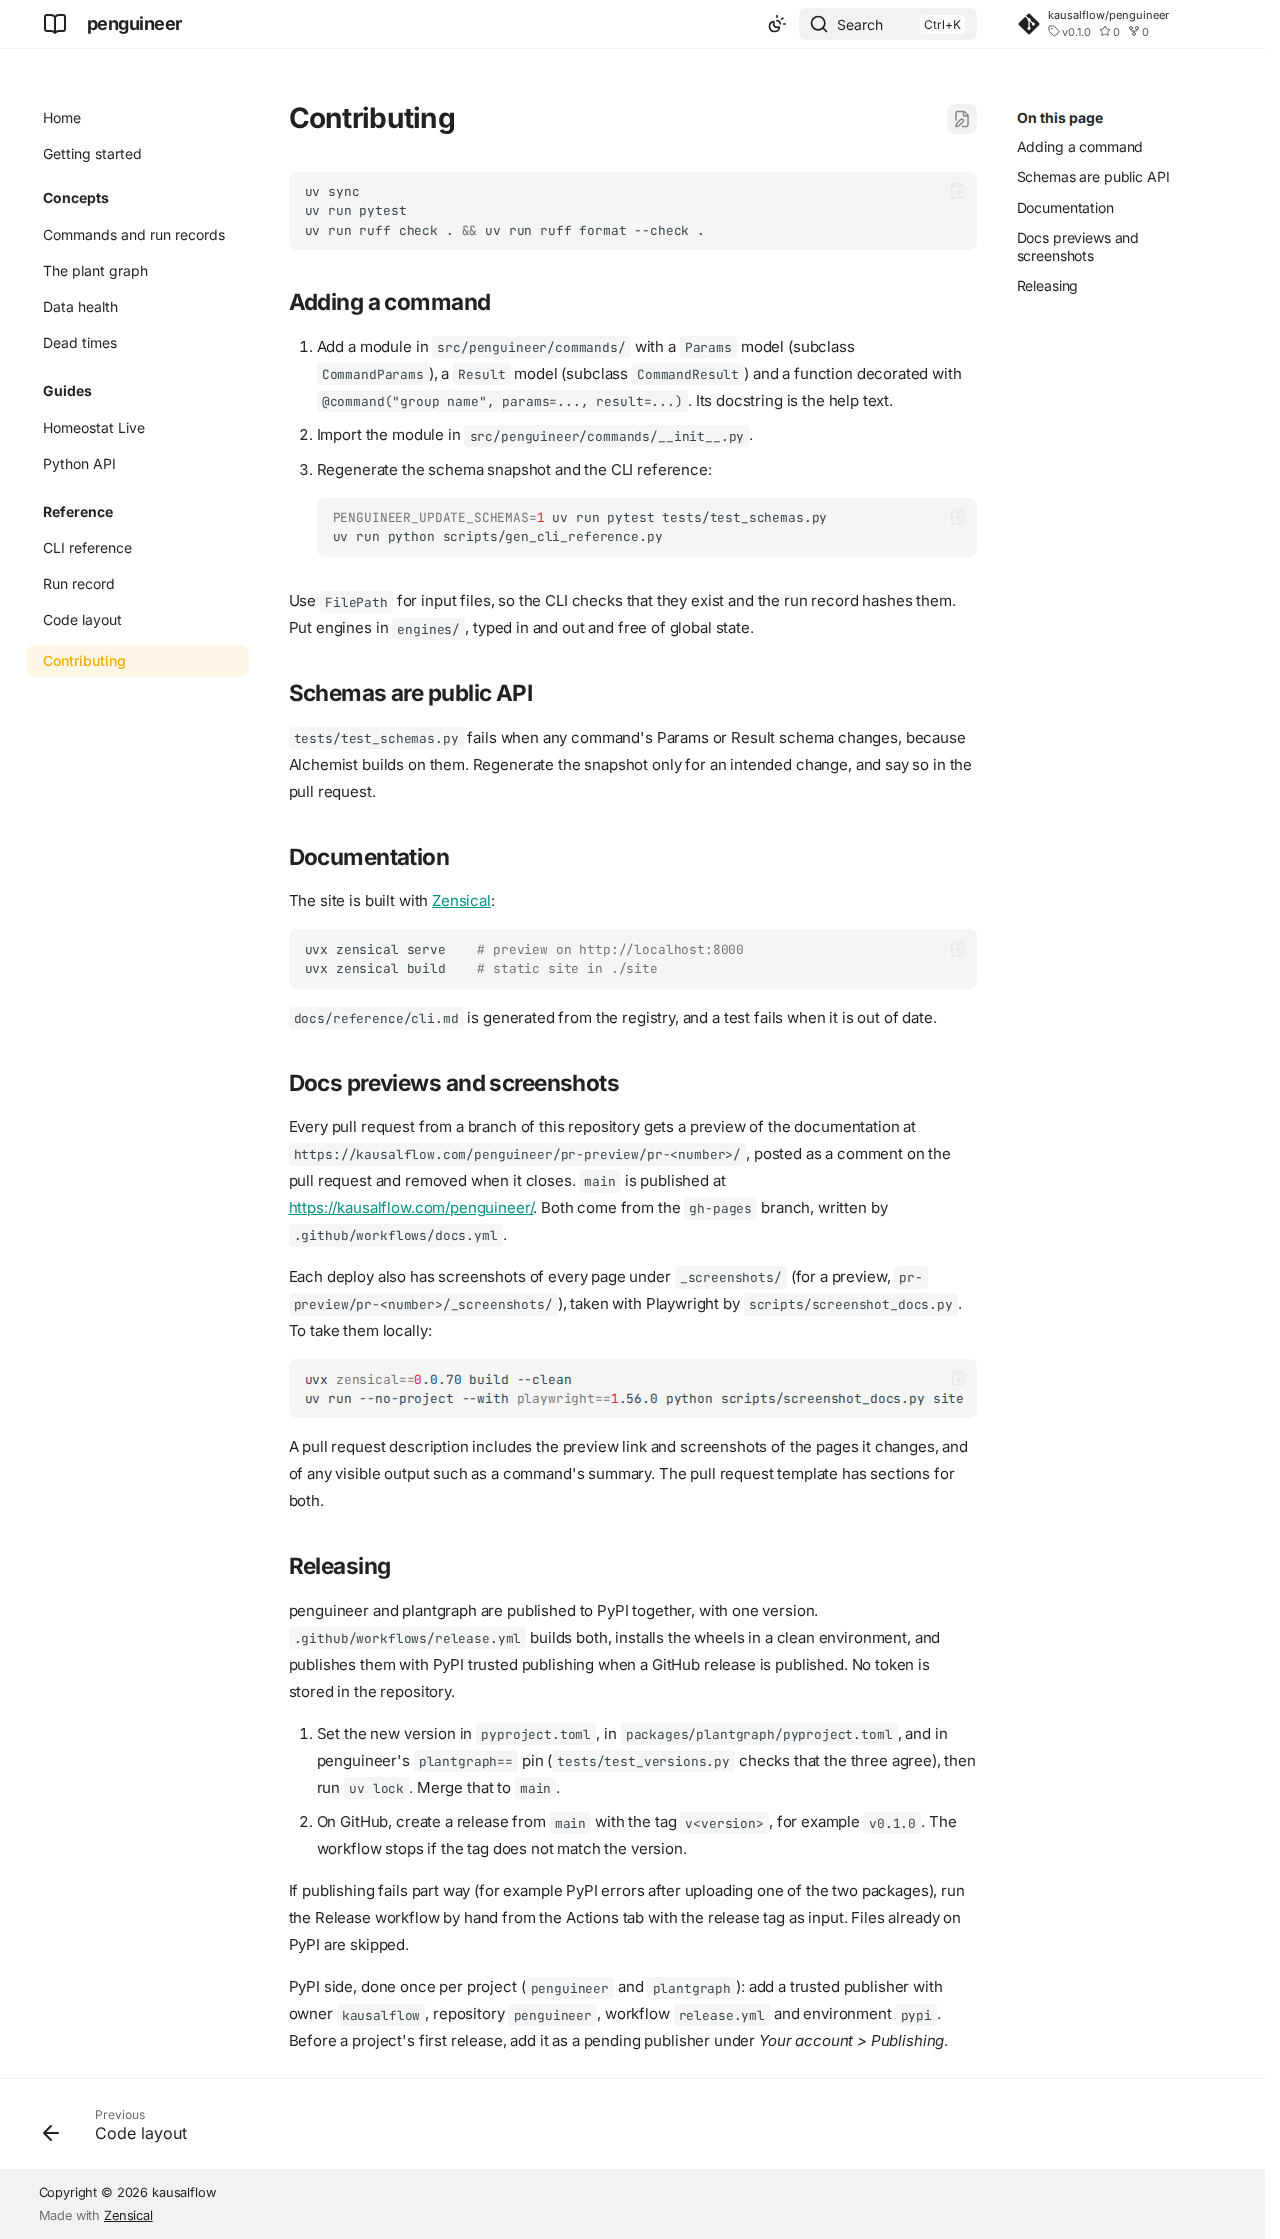
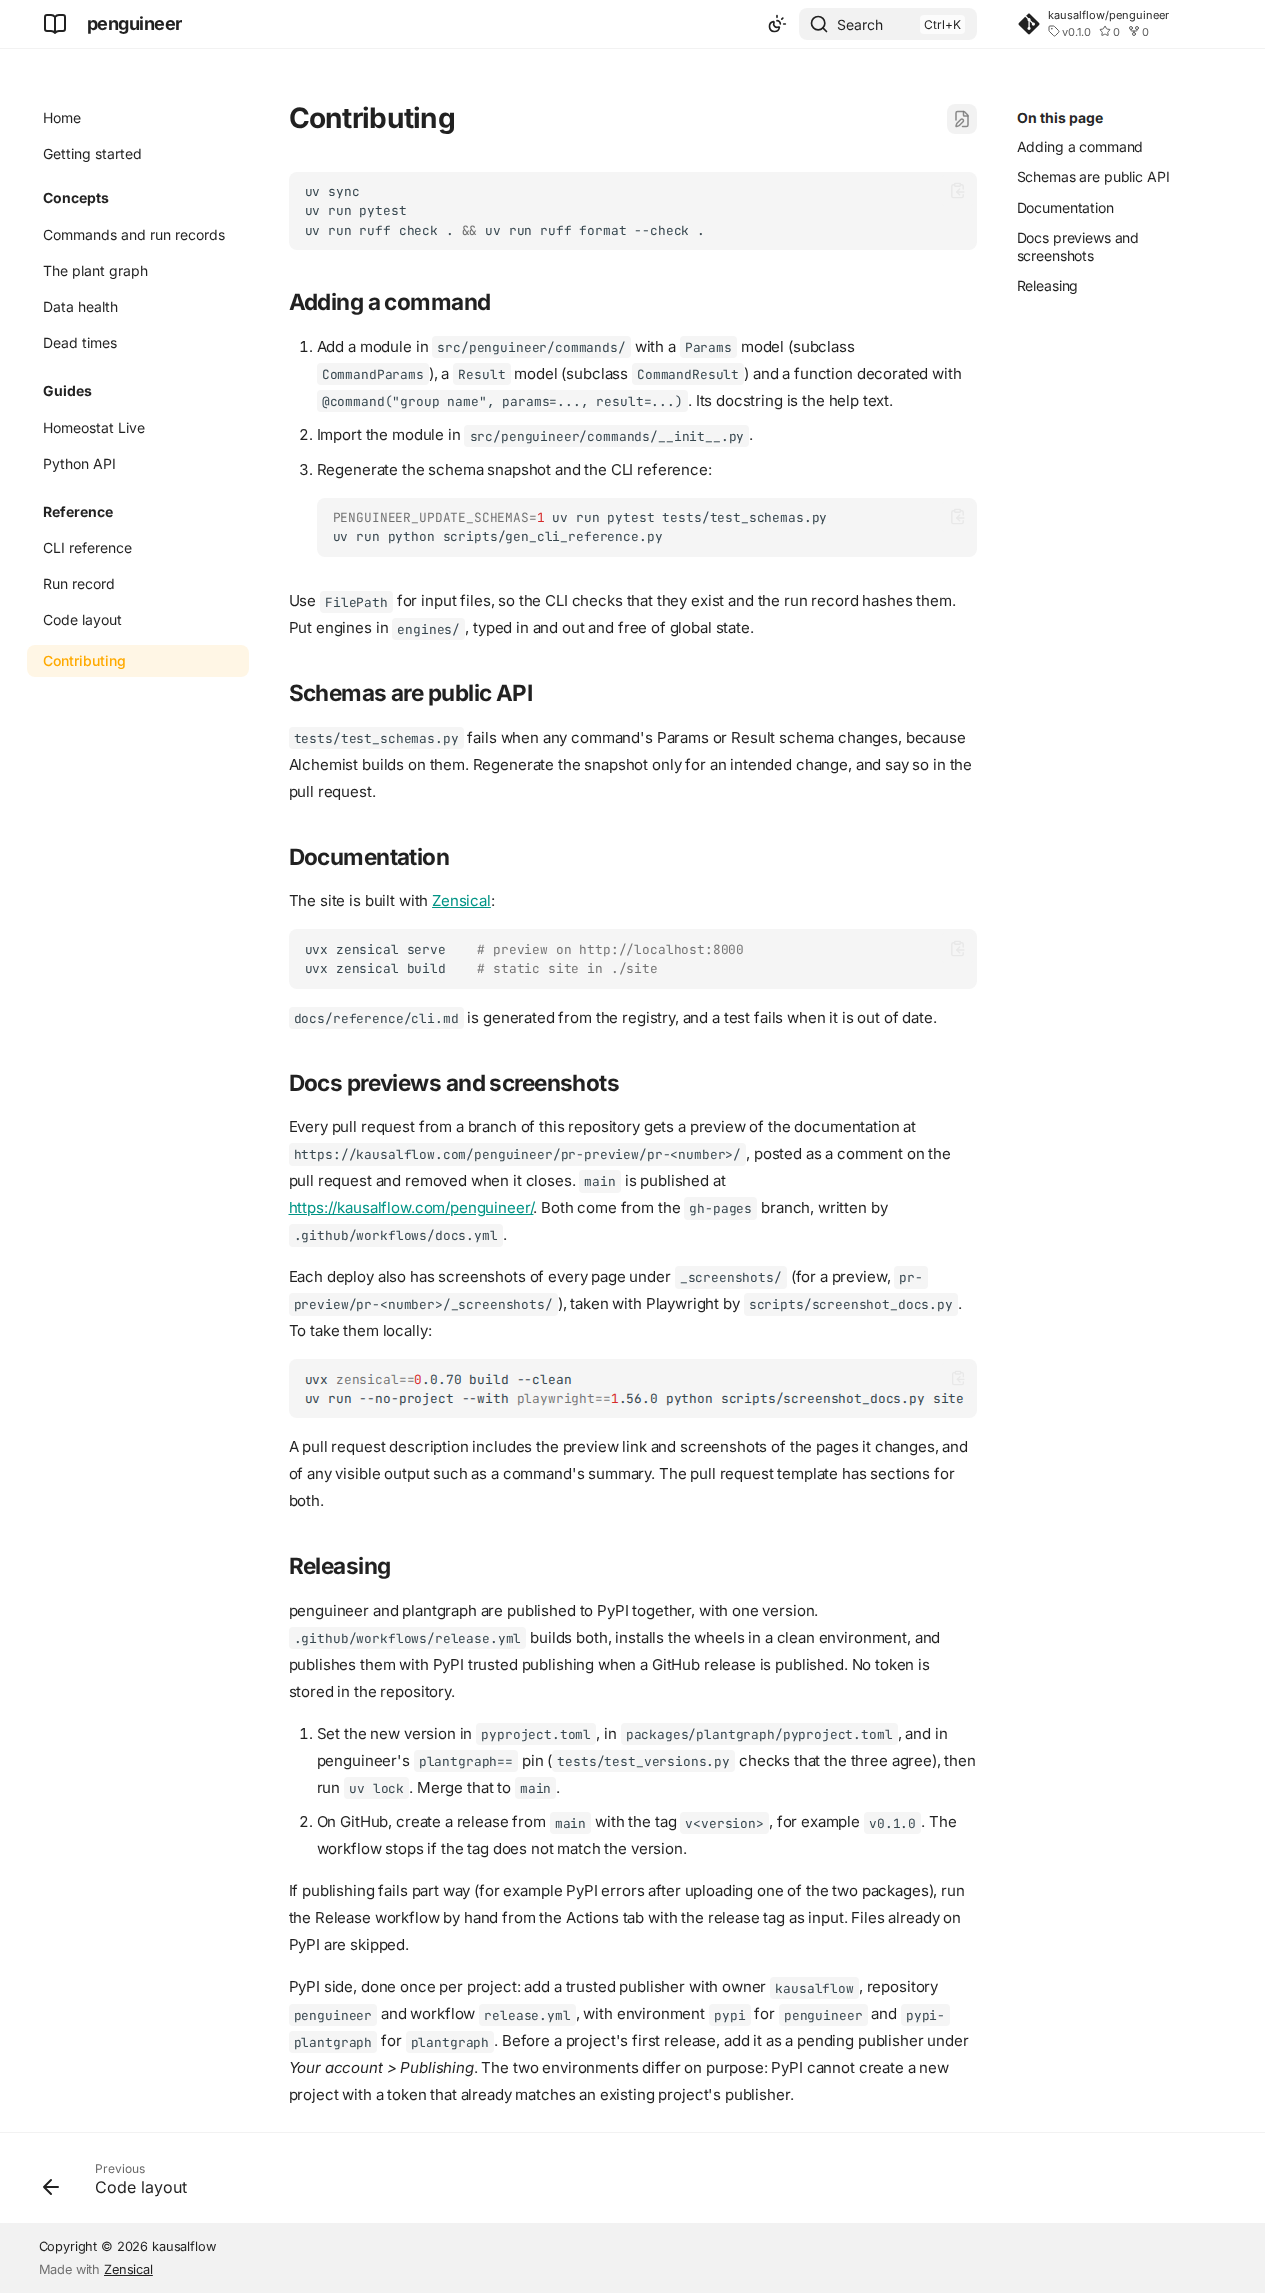
Deploying to gh-pages from @ kausalflow/penguineer@ea0f9314a61c3f675b026dbc812fee5d019b93a5 🚀

diff --git a/contributing/index.html b/contributing/index.html
@@ -1030,7 +1030,7 @@
 <li>On GitHub, create a release from <code>main</code> with the tag <code>v&lt;version&gt;</code>, for example <code>v0.1.0</code>. The workflow stops if the tag does not match the version.</li>
 </ol>
 <p>If publishing fails part way (for example PyPI errors after uploading one of the two packages), run the Release workflow by hand from the Actions tab with the release tag as input. Files already on PyPI are skipped.</p>
-<p>PyPI side, done once per project (<code>penguineer</code> and <code>plantgraph</code>): add a trusted publisher with owner <code>kausalflow</code>, repository <code>penguineer</code>, workflow <code>release.yml</code> and environment <code>pypi</code>. Before a project's first release, add it as a pending publisher under <em>Your account &gt; Publishing</em>.</p>
+<p>PyPI side, done once per project: add a trusted publisher with owner <code>kausalflow</code>, repository <code>penguineer</code> and workflow <code>release.yml</code>, with environment <code>pypi</code> for <code>penguineer</code> and <code>pypi-plantgraph</code> for <code>plantgraph</code>. Before a project's first release, add it as a pending publisher under <em>Your account &gt; Publishing</em>. The two environments differ on purpose: PyPI cannot create a new project with a token that already matches an existing project's publisher.</p>
 
 
 
